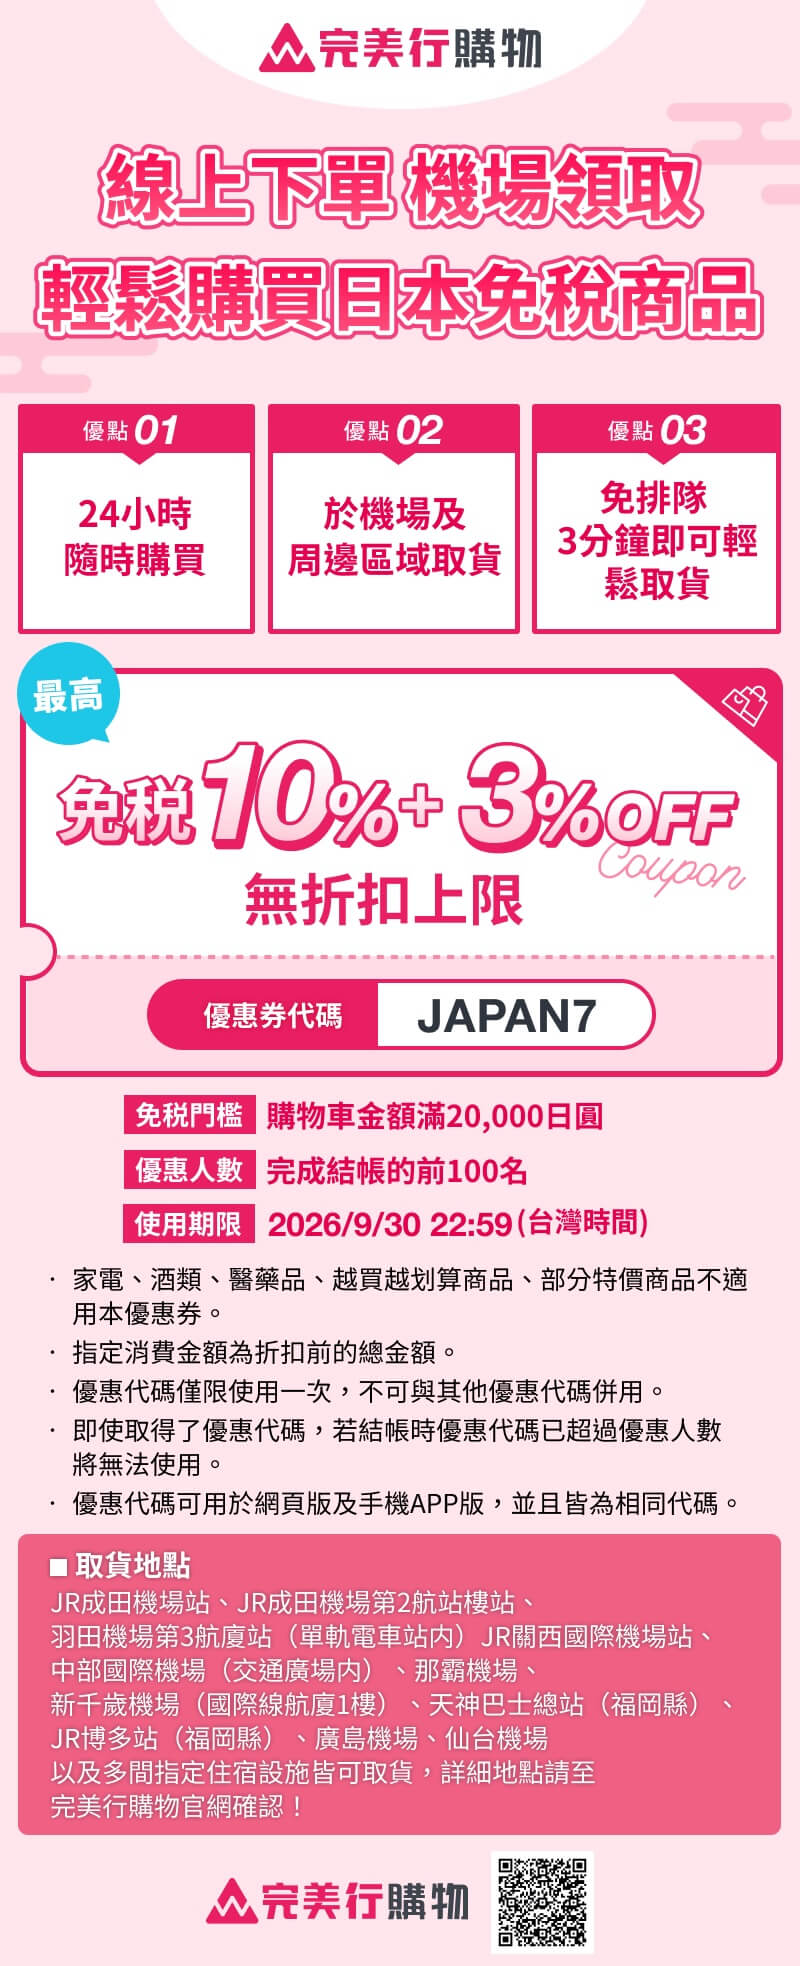
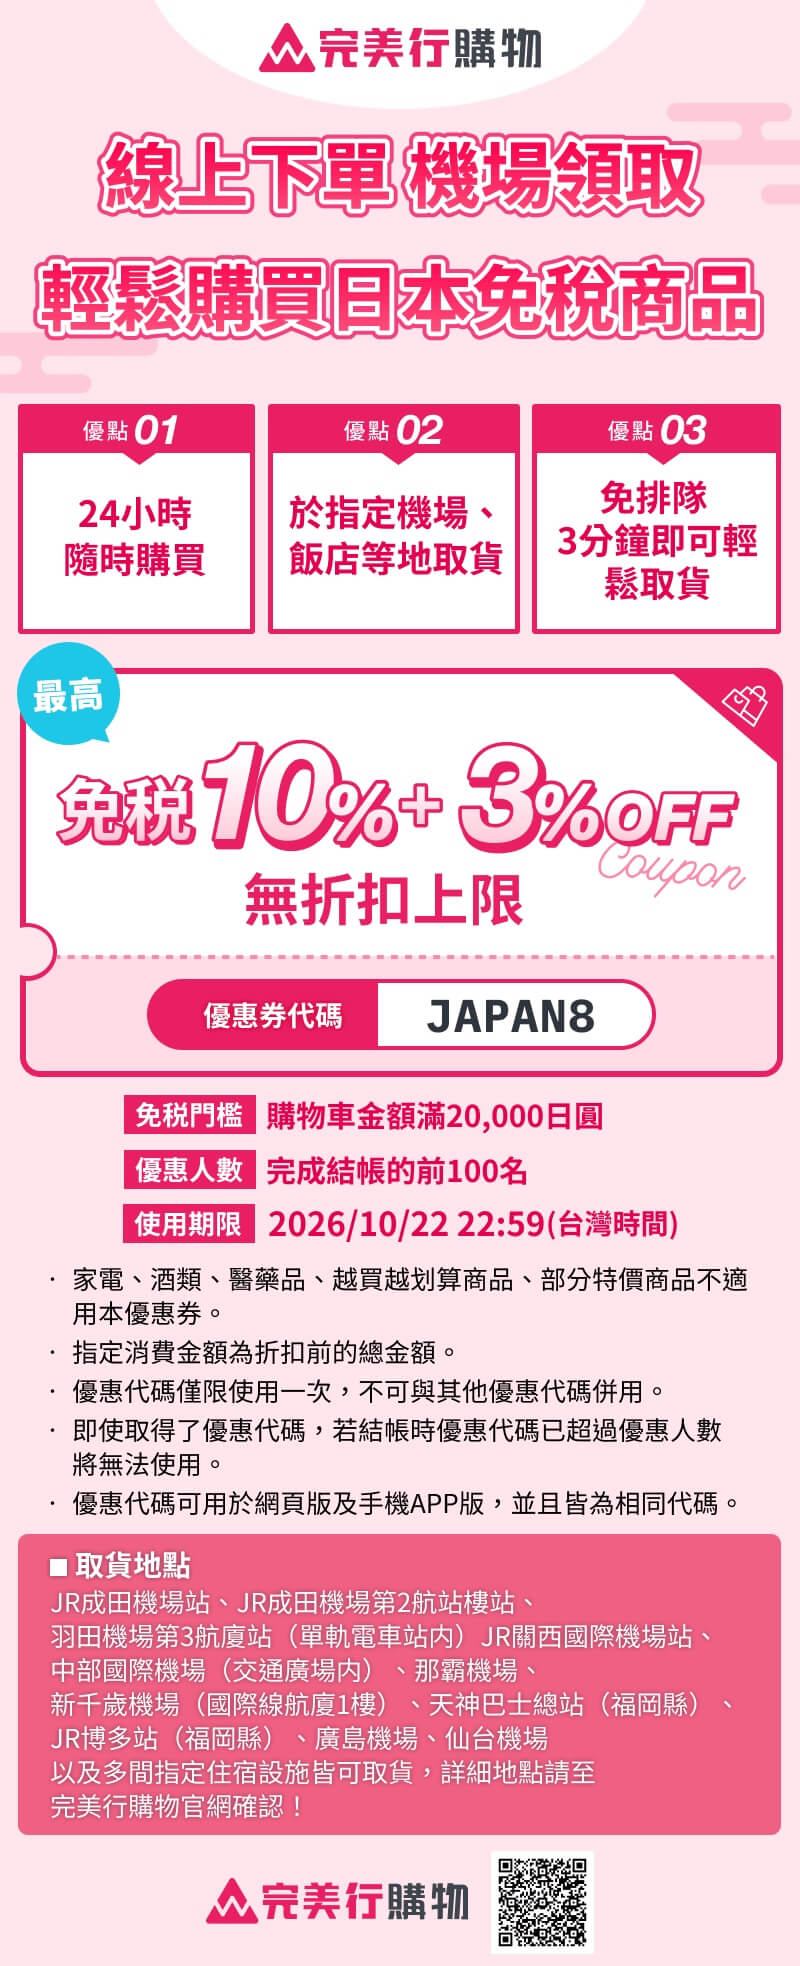
Coupon: add JILL by JILL STUART, refresh WAMAZING coupon
- New: JILL by JILL STUART — spend ¥10,000+ (tax incl.) for 10% tax
  free + ¥1,000 off, valid through 2027/03/31. Landing page at
  /coupon/jill/, store card, icon and sitemap entry.
- 完美行購物 WAMAZING: new campaign artwork. Cart ≥ ¥20,000 for 10% tax
  free + 3% off with no cap, code JAPAN8, valid until 2026/10/22 22:59
  (Taiwan time). The list entry had already expired (2026/09/29) and
  the landing page still described the old ¥10,000 / ¥2,000-off deal.

diff --git a/coupon/jill/index.html b/coupon/jill/index.html
@@ -12,29 +12,29 @@
       gtag('config', 'G-VGPEQDL1RH');
     </script>
 
-    <link rel="canonical" href="https://junlando.com/coupon/wamazing/" />
-    <title>【完美行購物 優惠券】2026 日本最新折扣（免稅＋優惠）</title>
-    <meta name="description" content="完美行購物 最新優惠：購物車滿20,000日圓享免稅10%+3%OFF，無折扣上限。2026 日本購物旅遊必備折扣券，免稅再省一次。" />
-    <meta name="keywords" content="完美行購物 優惠券,完美行購物 折價券,完美行購物 日本折扣,完美行購物 coupon,日本優惠券,日本購物折扣" />
+    <link rel="canonical" href="https://junlando.com/coupon/jill/" />
+    <title>【JILL by JILL STUART 優惠券】2026 日本最新折扣（免稅＋優惠）</title>
+    <meta name="description" content="JILL by JILL STUART 最新優惠：滿1萬日圓（含稅）以上，免稅10%再折1000日圓。2026 日本購物旅遊必備折扣券，免稅再省一次。" />
+    <meta name="keywords" content="JILL by JILL STUART 優惠券,JILL STUART 折價券,JILL 日本折扣,JILL by JILL STUART coupon,LUMINE 優惠券,日本優惠券,日本購物折扣" />
 
     <script type="application/ld+json">
 {
   "@context": "https://schema.org",
   "@type": "Product",
-  "name": "完美行購物 日本優惠券",
-  "description": "完美行購物 最新優惠：購物車滿20,000日圓享免稅10%+3%OFF，無折扣上限。2026 日本購物旅遊必備折扣券，免稅再省一次。",
-  "url": "https://junlando.com/coupon/wamazing/",
+  "name": "JILL by JILL STUART 日本優惠券",
+  "description": "JILL by JILL STUART 最新優惠：滿1萬日圓（含稅）以上，免稅10%再折1000日圓。2026 日本購物旅遊必備折扣券，免稅再省一次。",
+  "url": "https://junlando.com/coupon/jill/",
   "brand": {
     "@type": "Brand",
-    "name": "完美行購物"
+    "name": "JILL by JILL STUART"
   },
   "offers": {
     "@type": "Offer",
     "price": "0",
     "priceCurrency": "JPY",
     "availability": "https://schema.org/InStock",
-    "validThrough": "2026-10-22",
-    "description": "免稅10%+3%OFF"
+    "validThrough": "2027-03-31",
+    "description": "1000日圓"
   }
 }
     </script>
@@ -308,14 +308,14 @@
     </header>
 
     <div class="coupon-container">
-        <img src="../coupon_images/wamazing.jpg" alt="完美行購物 優惠券 | 日本折扣" class="coupon-img" />
+        <img src="../coupon_images/jill.jpg" alt="JILL by JILL STUART 優惠券 | 日本折扣" class="coupon-img" />
     </div>
 
     <div class="hidden-seo">
-        <h1>完美行購物 優惠券｜購物車滿20,000日圓享免稅10%+3%OFF，無折扣上限</h1>
-        <p>購物車滿20,000日圓享免稅10%+3%OFF，無折扣上限</p>
-        <p>折扣資訊：免稅10%＋3%OFF</p>
-        <p>優惠截止：2026-10-22</p>
+        <h1>JILL by JILL STUART 優惠券｜滿1萬日圓（含稅）以上，免稅10%再折1000日圓</h1>
+        <p>滿1萬日圓（含稅）以上，免稅10%再折1000日圓</p>
+        <p>折扣資訊：免稅10%＋1000日圓</p>
+        <p>優惠截止：2027-03-31</p>
     </div>
     <script>
         (function(){

diff --git a/coupon/index.html b/coupon/index.html
@@ -1992,6 +1992,7 @@
         'tsuruha': 'tsuruha.png',
         'tsuruha_west': 'tsuruha.png',
         'lady': 'lady.jpg',
+        'jill': 'jill.jpg',
         'keio': 'keio.png',
         'sundrug': 'sundrug.jpeg',
         'tobu': 'tobu.png',
@@ -2134,6 +2135,7 @@
       'cosmetics': '2026 COSMETICS AND MEDICAL 藥妝店 日本免稅優惠券 最高15%折扣',
       'tsuruha': '2026 TSURUHA 鶴羽藥妝 日本免稅優惠券 最高17%折扣 (10%免稅+7%折扣)',
       'tsuruha_west': '2026 TSURUHA 鶴羽藥妝 西日本限定優惠券 最高17%折扣 - Wants、Wellness、九州鶴羽（長崎/佐賀/福岡）適用',
+      'jill': '2026 JILL by JILL STUART 日本免稅優惠券 滿1萬日圓免稅10%再折1000日圓 - LUMINE、PARCO等百貨專櫃適用',
       'lady': '2026 LADY藥局（レデイ薬局）日本免稅優惠券 最高17%折扣 (10%免稅+7%折扣) - 愛媛、兵庫、德島、香川、岡山、高知、廣島限定',
       'mitsui': '2026 三井集團 MITSUI OUTLET 日本免稅優惠券 最高10%折扣 + 免稅 10%',
       'aeon': '2026 AEON 永旺超市 日本免稅優惠券 95 折優惠 + 10%免稅',
